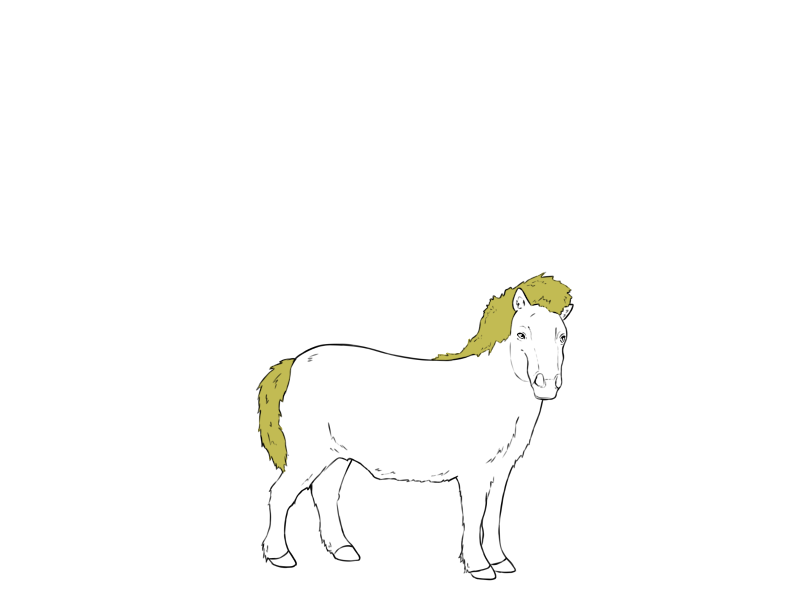
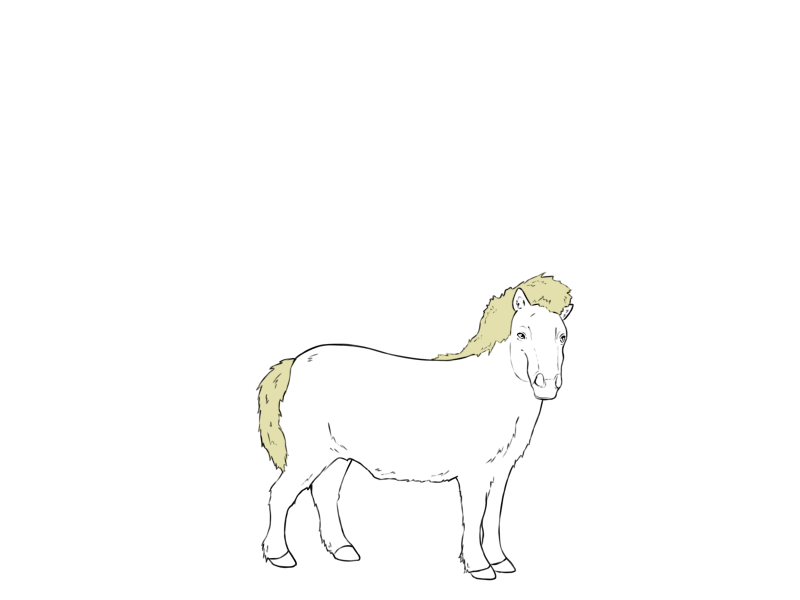
silver

Changed region(s): [[0.5312, 0.45, 0.7188, 0.6], [0.3125, 0.6, 0.375, 0.78]]

diff --git a/database/seeds/ImagesTableSeeder.php b/database/seeds/ImagesTableSeeder.php
@@ -1412,6 +1412,15 @@ class ImagesTableSeeder extends Seeder
                 'created_at' => NULL,
                 'updated_at' => NULL,
             ),
+            155 => 
+            array (
+                'id' => 167,
+                'chemin' => 'membressilver',
+                'extension' => 'png',
+                'z_index' => 10,
+                'created_at' => NULL,
+                'updated_at' => NULL,
+            ),
         ));
         
         

diff --git a/database/seeds/CouleurImageTableSeeder.php b/database/seeds/CouleurImageTableSeeder.php
@@ -1601,6 +1601,14 @@ class CouleurImageTableSeeder extends Seeder
                 'created_at' => NULL,
                 'updated_at' => NULL,
             ),
+            198 => 
+            array (
+                'id' => 240,
+                'couleur_id' => 34,
+                'image_id' => 167,
+                'created_at' => NULL,
+                'updated_at' => NULL,
+            ),
         ));
         
         
